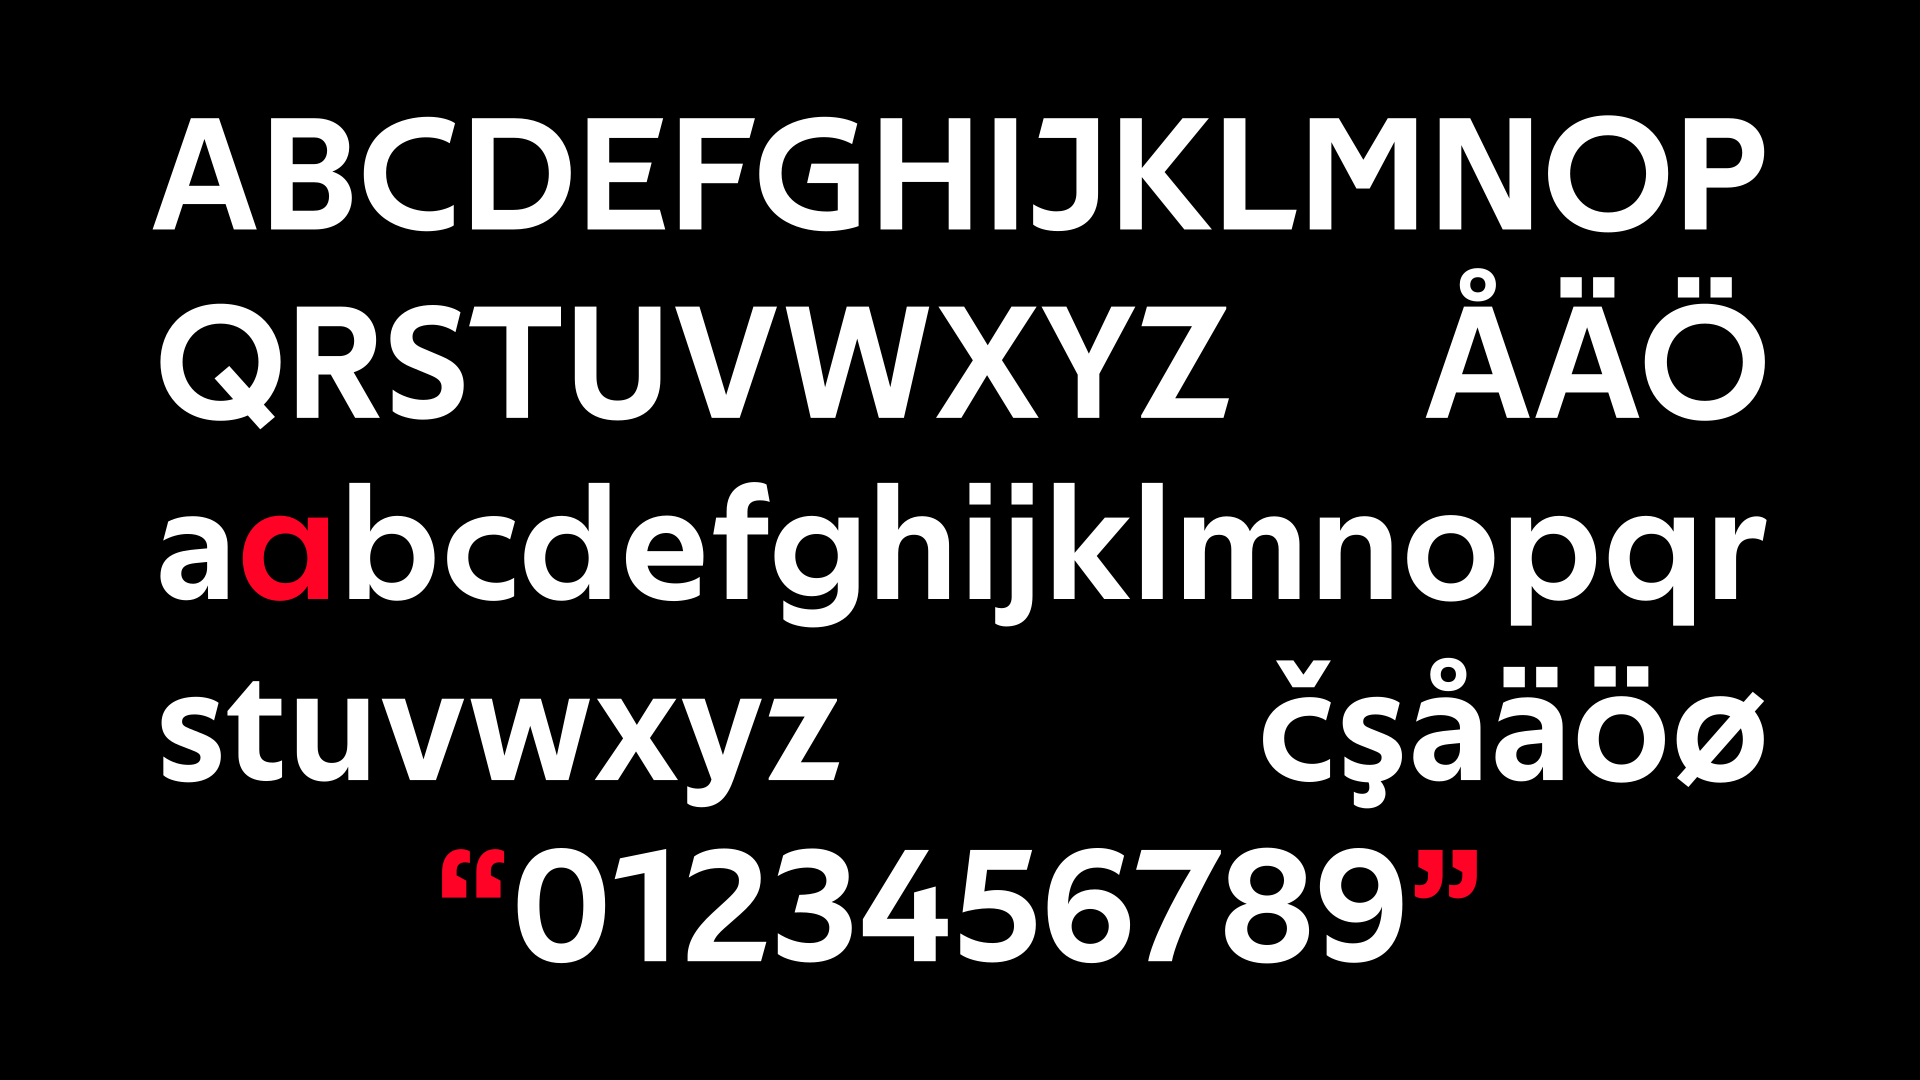
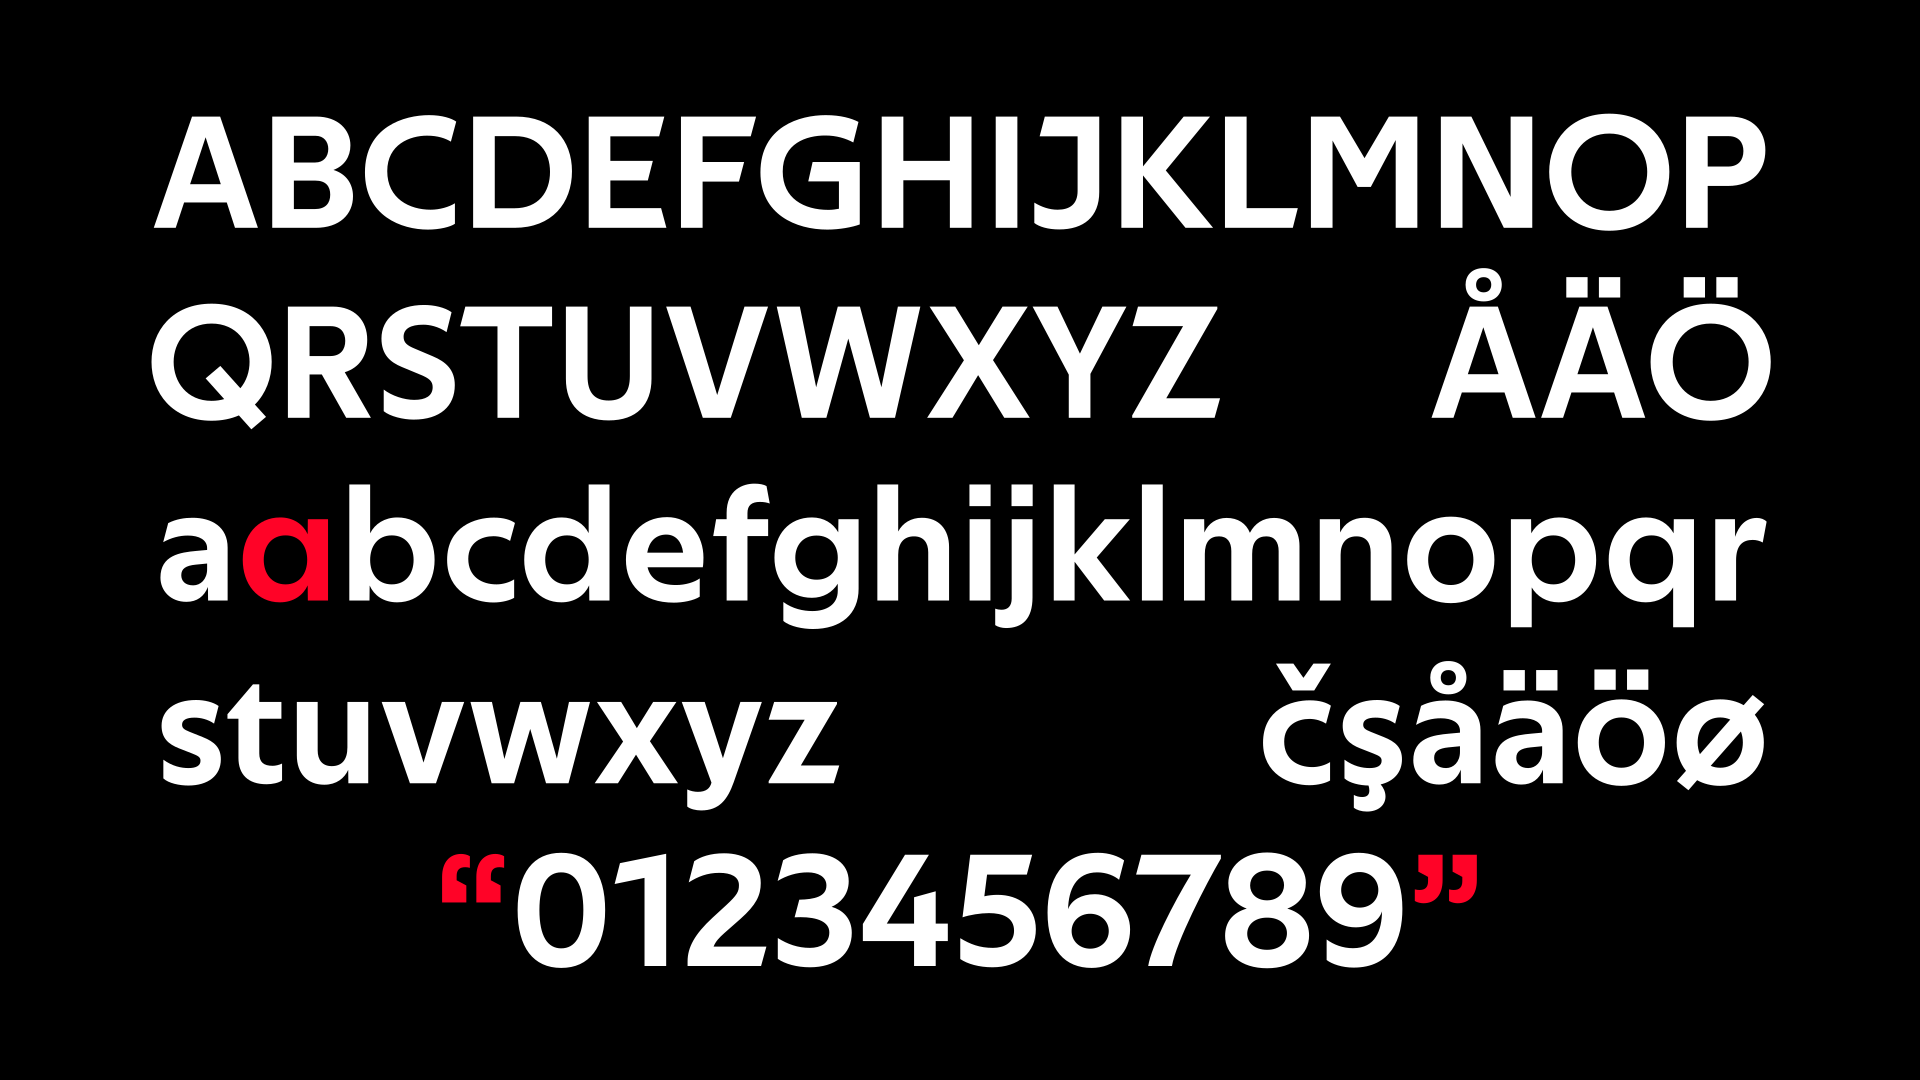
Tweak specimen spacing

diff --git a/README.md b/README.md
@@ -27,7 +27,7 @@ For other applications, e.g. Adobe InDesign, a quick Google search might be need
 
 By default the typeface uses proportional figures,
 but there is also a set of tabular figures available.
-Tabular figures makes each number take up the same space,
+Tabular figures make each number take up the same space,
 which helps when setting tabular data.
 The tabular figures can be enabled in CSS with `font-variant-numeric: tabular-nums`.
 
